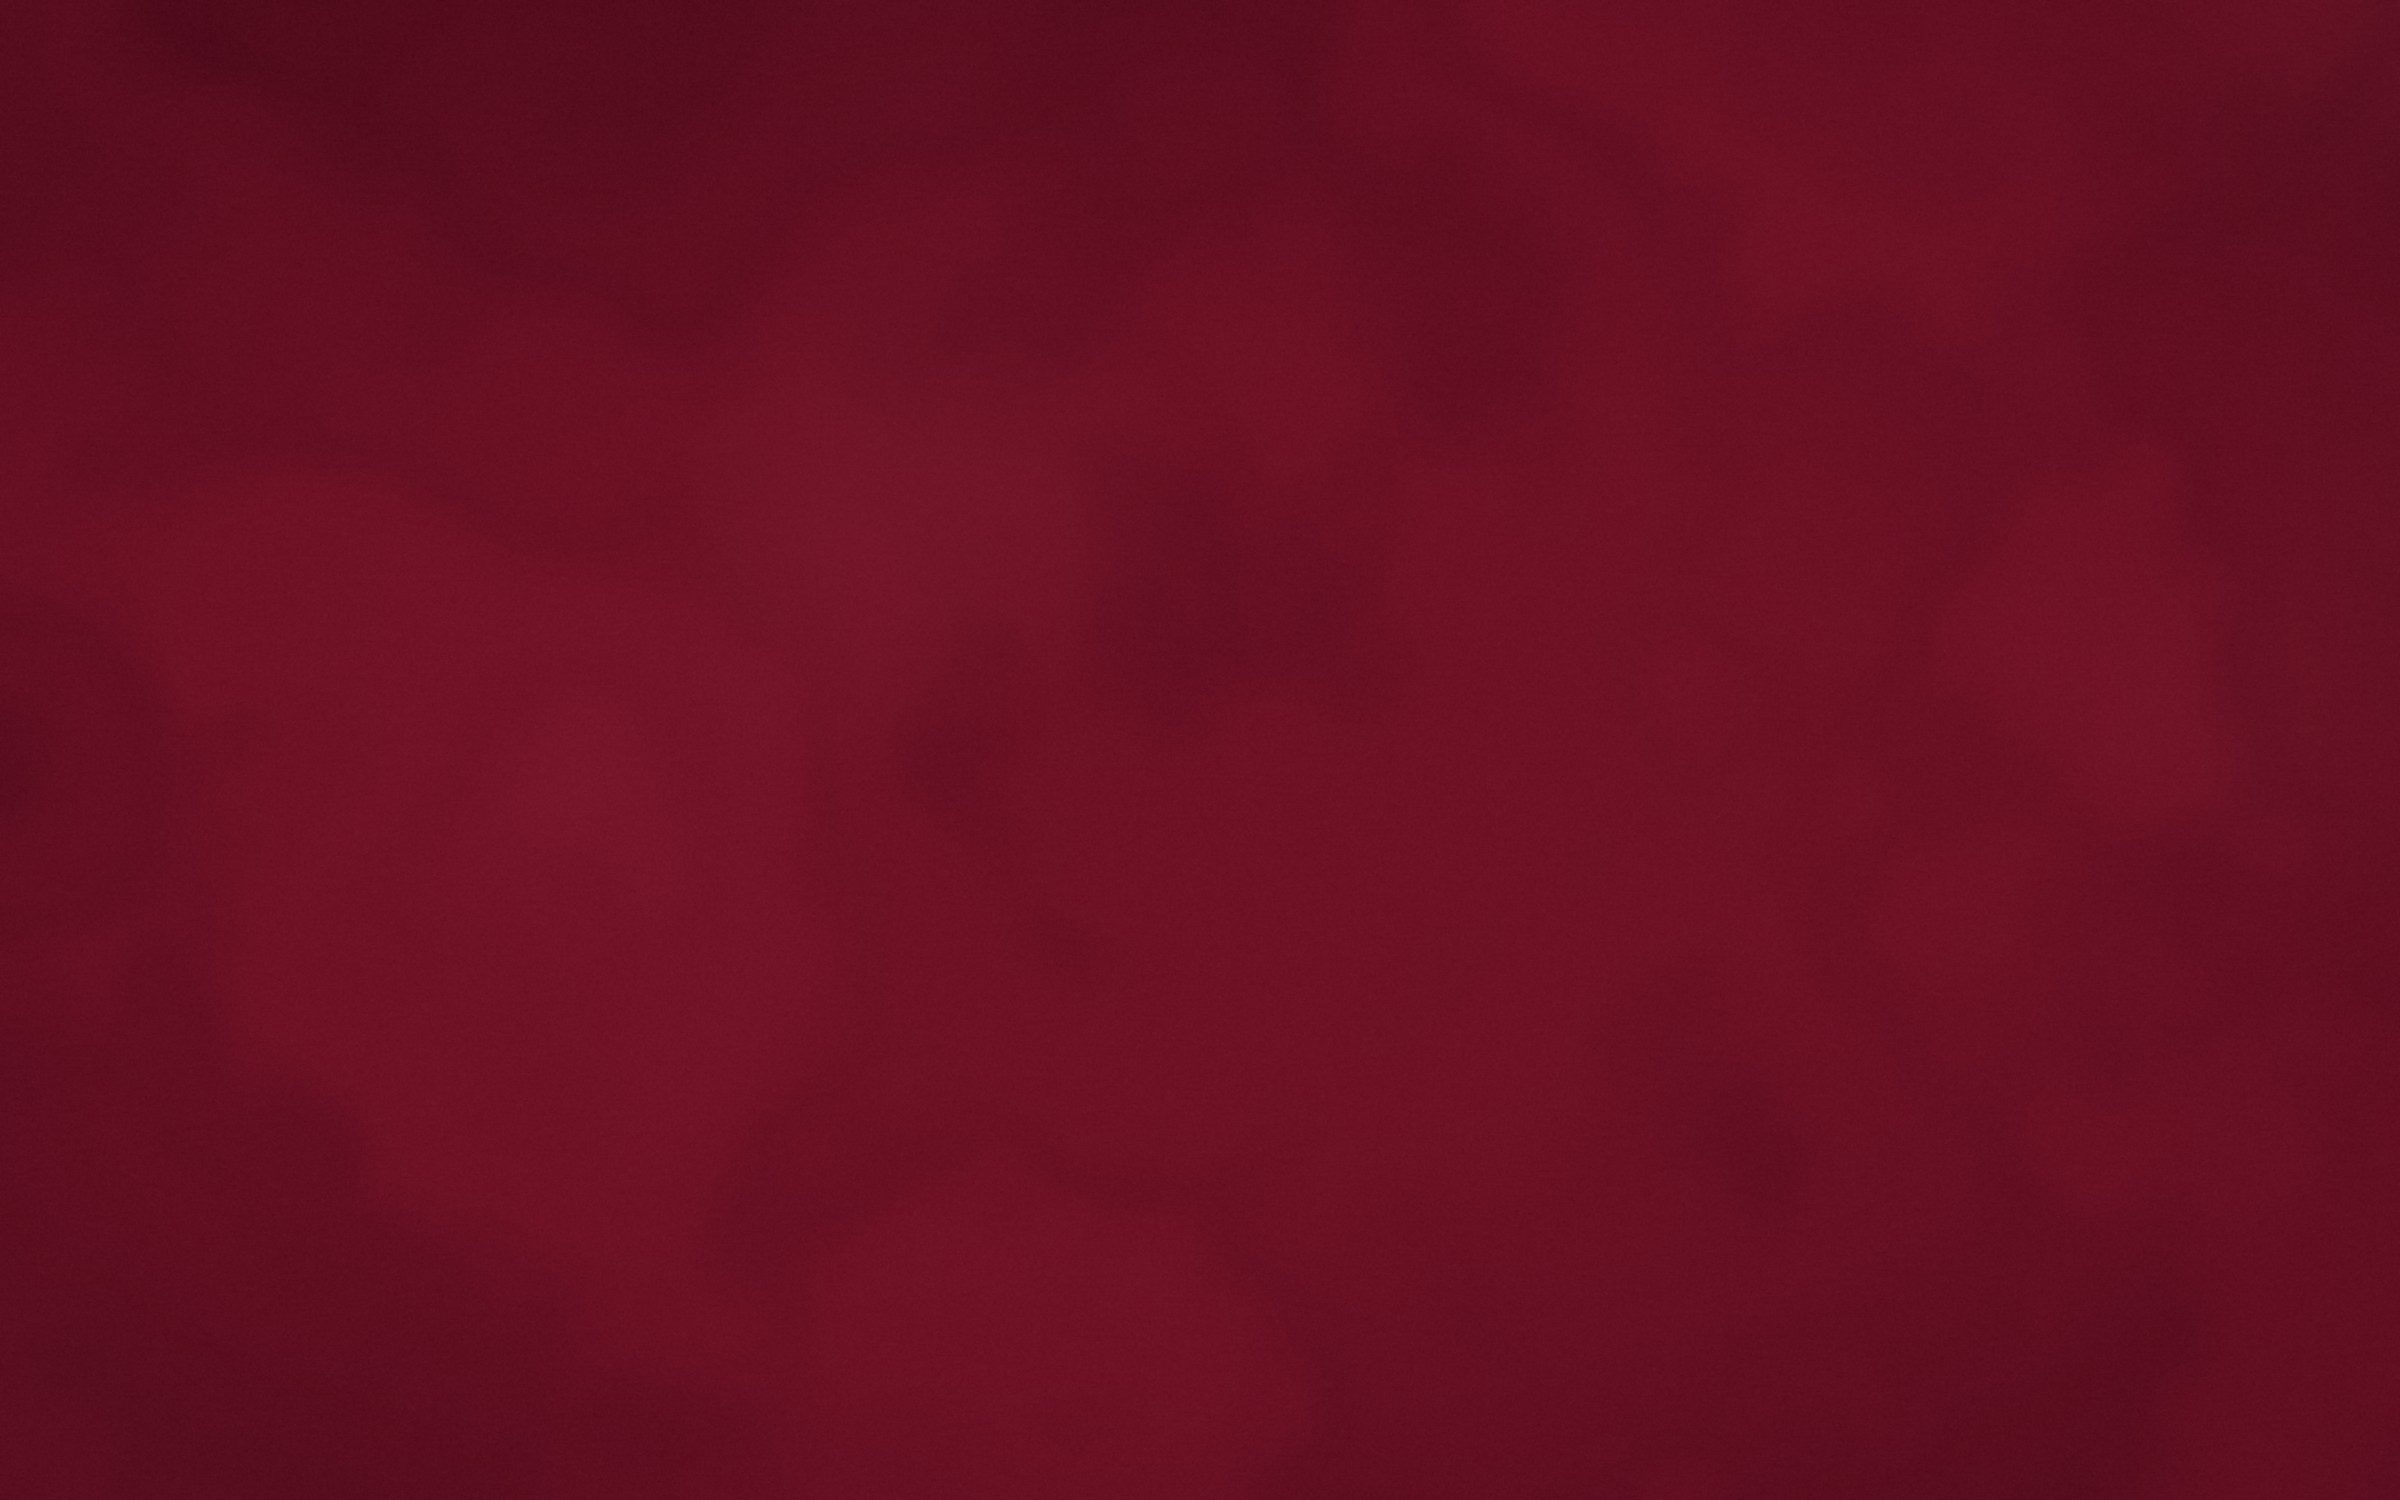
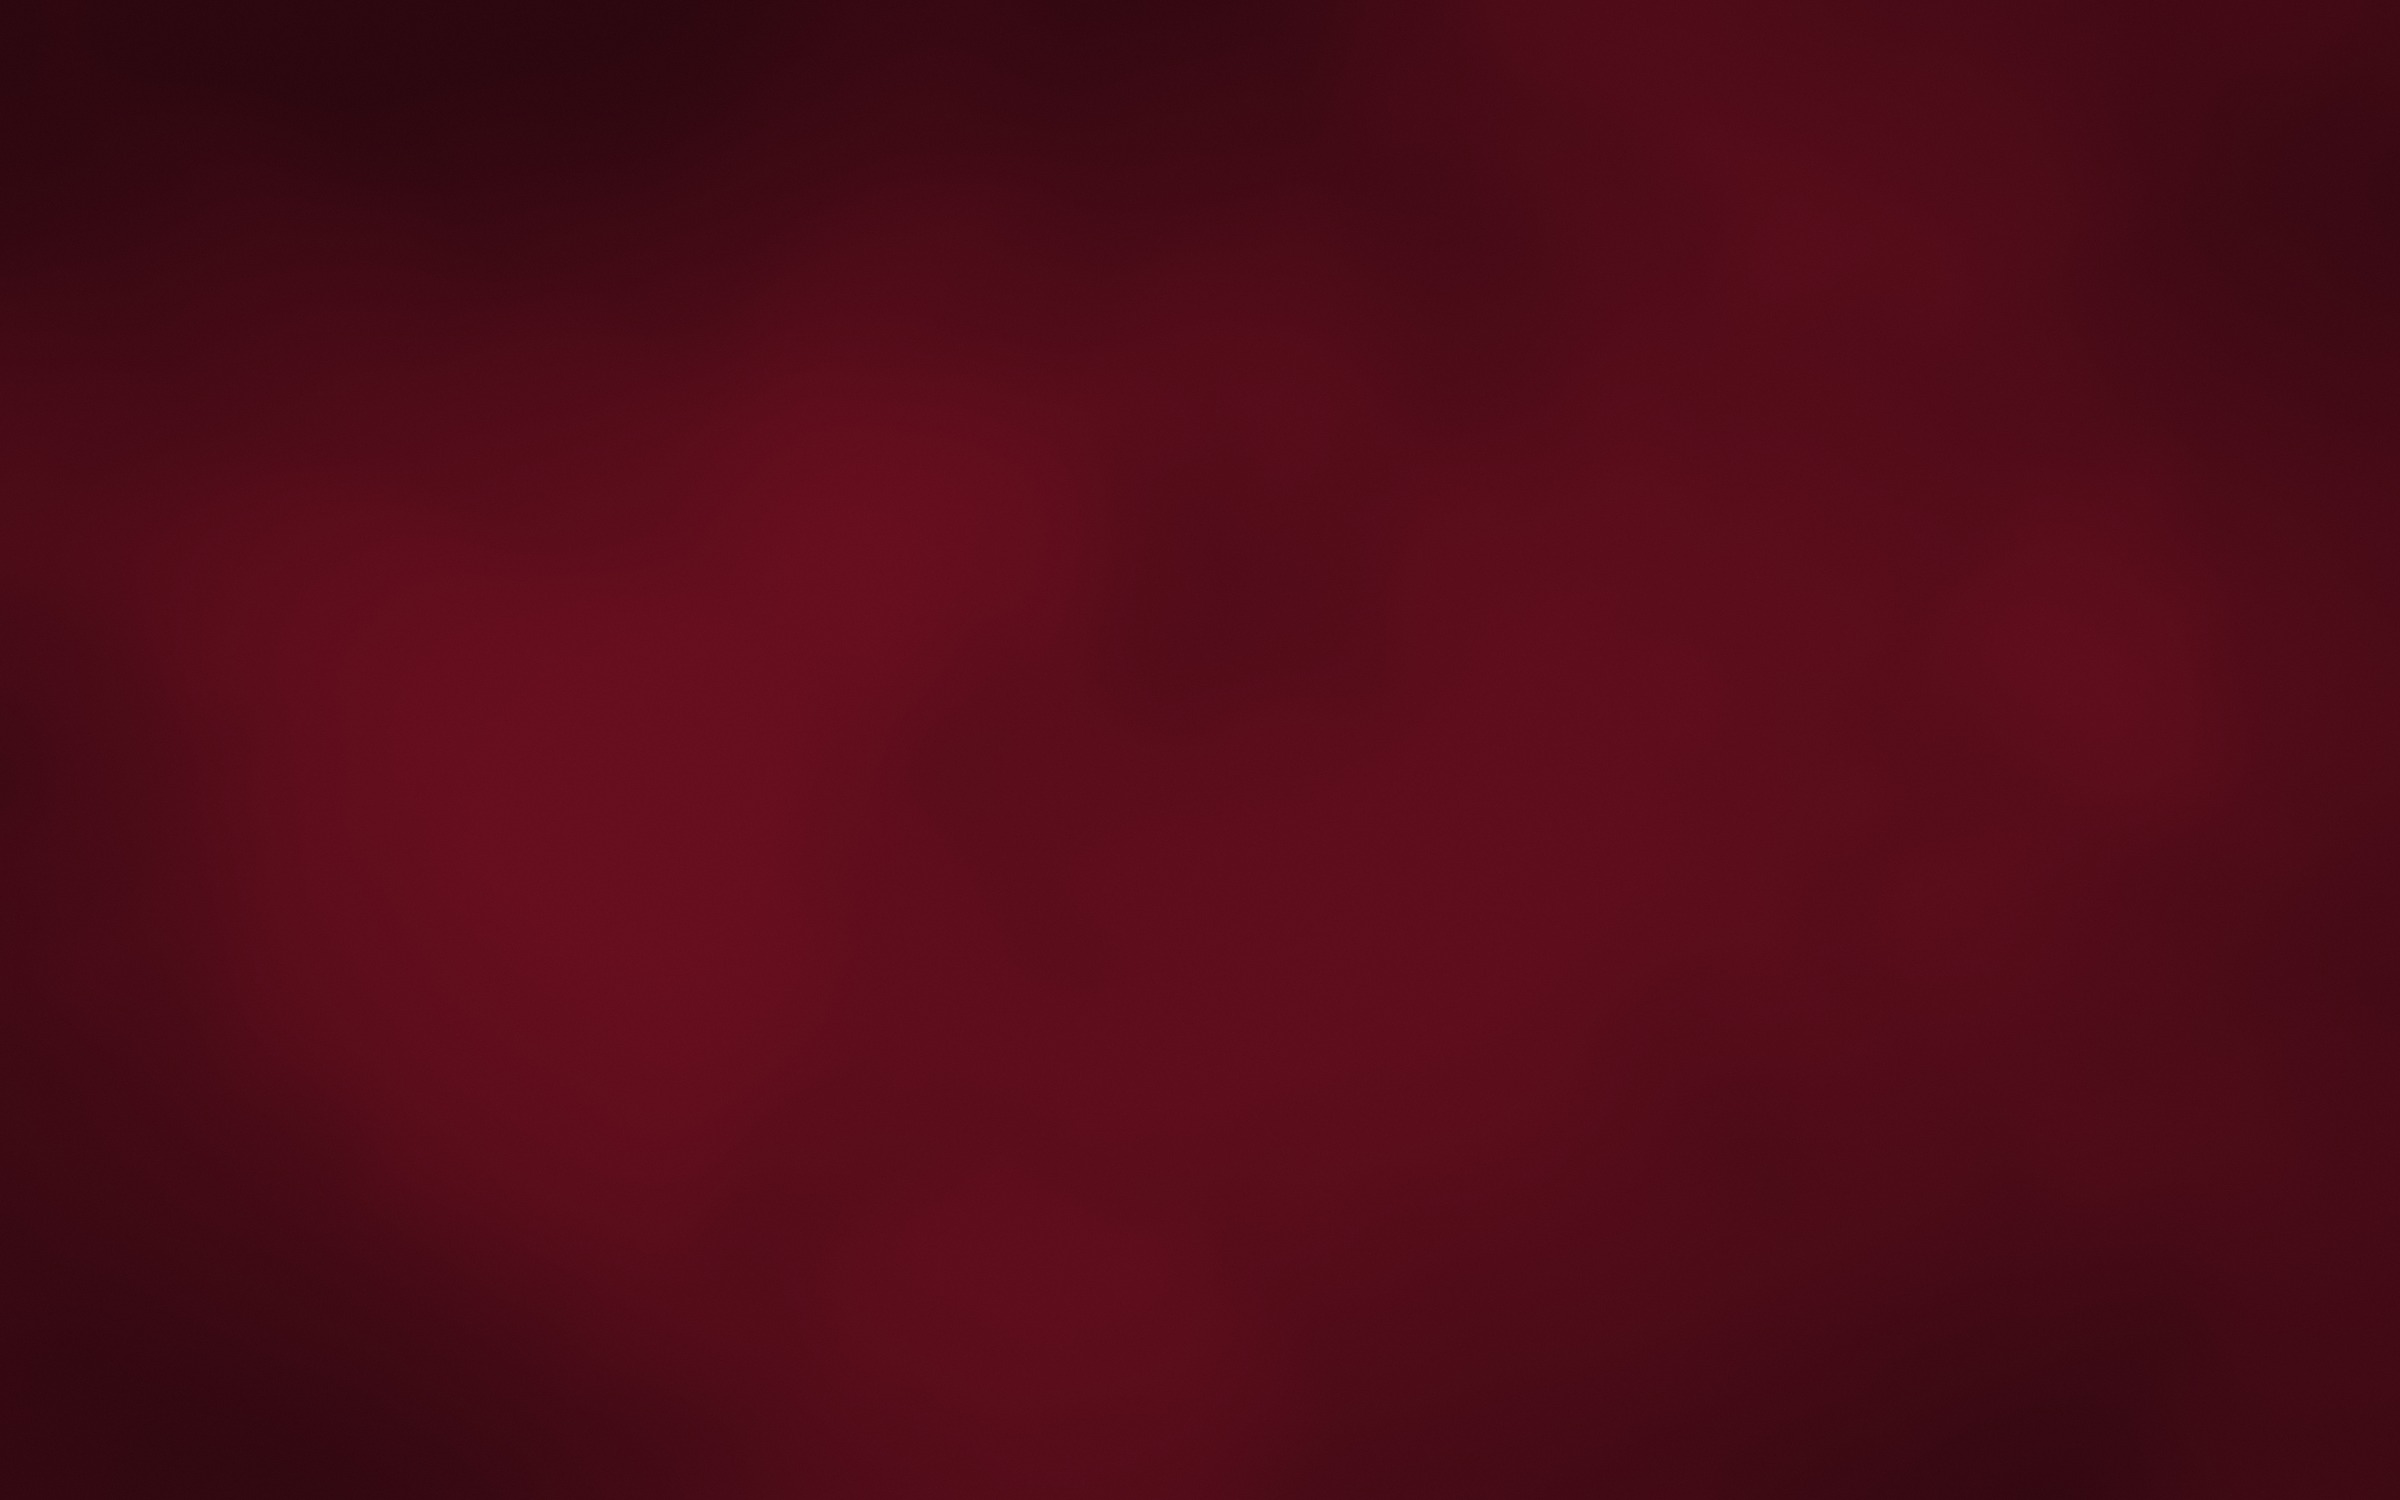
Background: deeper red and maroon, blended like a gradient
Claude-Session: https://claude.ai/code/session_01KtmkHoEustaste9AiB5Gjq

diff --git a/survey/survey.html b/survey/survey.html
@@ -37,7 +37,7 @@ body{
   background-attachment:fixed;
 }
 /* burgundy watercolor background, matching the homepage (stays still on iPhone too) */
-body::before{content:"";position:fixed;inset:0;z-index:-1;background:#6a1426 url(../images/watercolor-bg.jpg) center top/cover no-repeat}
+body::before{content:"";position:fixed;inset:0;z-index:-1;background:#560b18 url(../images/watercolor-bg.jpg) center top/cover no-repeat}
 @media (max-aspect-ratio:3/4){body::before{background-image:url(../images/watercolor-bg-tall.jpg)}}
 .skip{position:absolute;left:-999px;top:0;background:var(--gold-light);color:var(--maroon);padding:.6rem 1rem;z-index:20}
 .skip:focus{left:0}

diff --git a/watercolor.css b/watercolor.css
@@ -12,9 +12,9 @@
 
 /* the painted background stays still while the page scrolls
    (a fixed layer works on iPhone, where background-attachment:fixed doesn't) */
-body.wc{background:#6a1426;position:relative}
+body.wc{background:#560b18;position:relative}
 body.wc::before{content:"";position:fixed;inset:0;z-index:-1;
-  background:#6a1426 url(images/watercolor-bg.jpg) center top/cover no-repeat}
+  background:#560b18 url(images/watercolor-bg.jpg) center top/cover no-repeat}
 @media (max-aspect-ratio:3/4){
   body.wc::before{background-image:url(images/watercolor-bg-tall.jpg)}
 }
